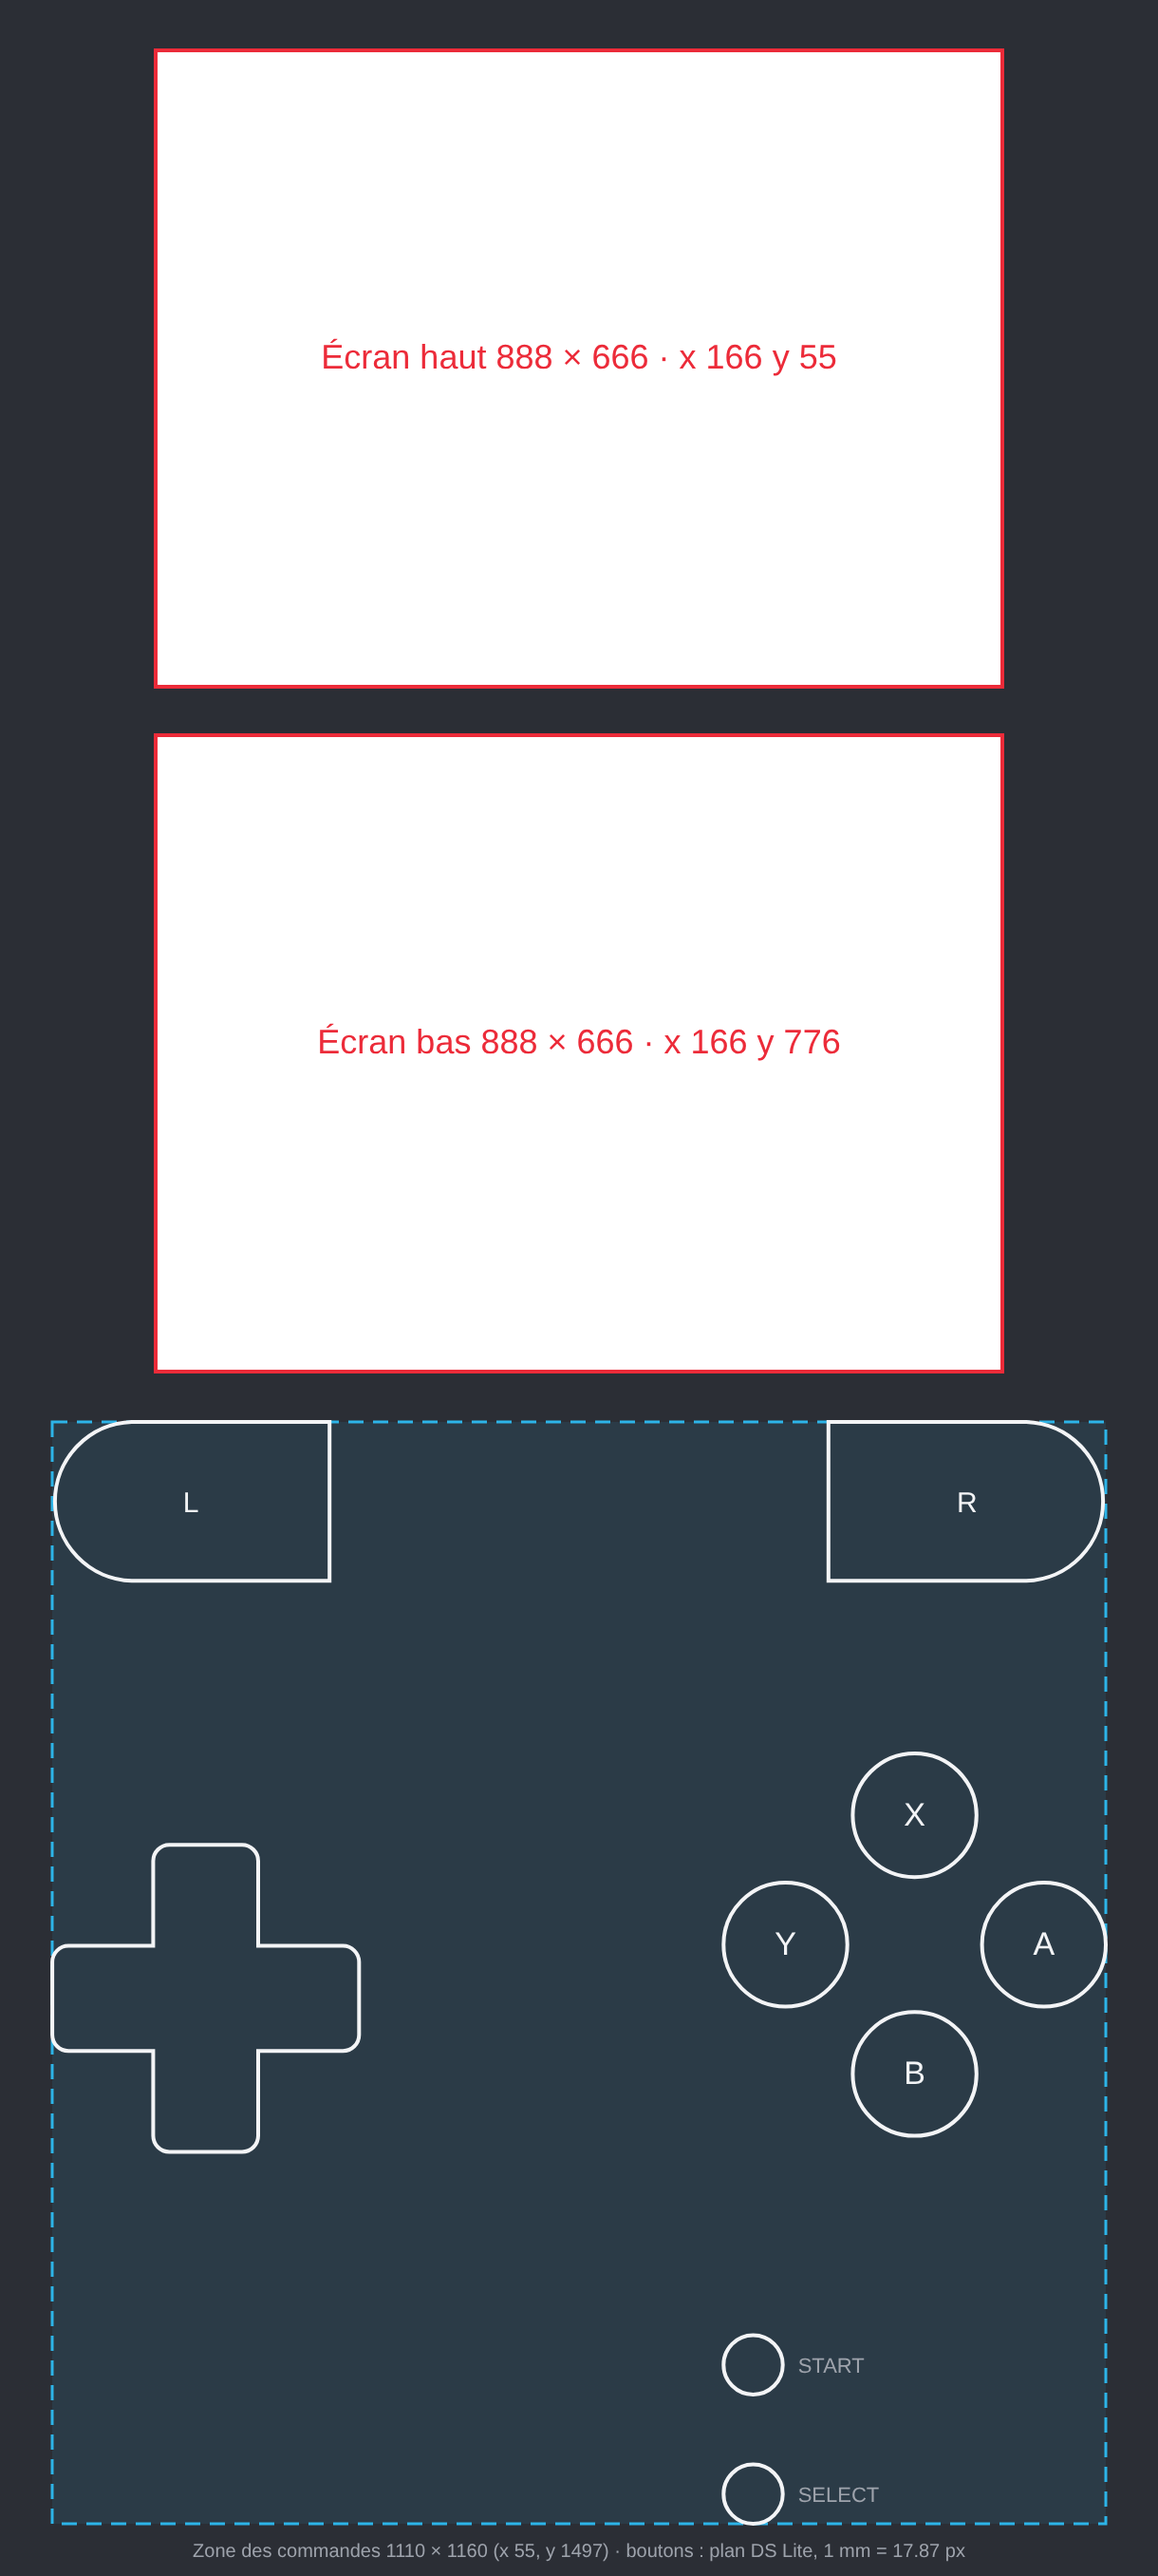
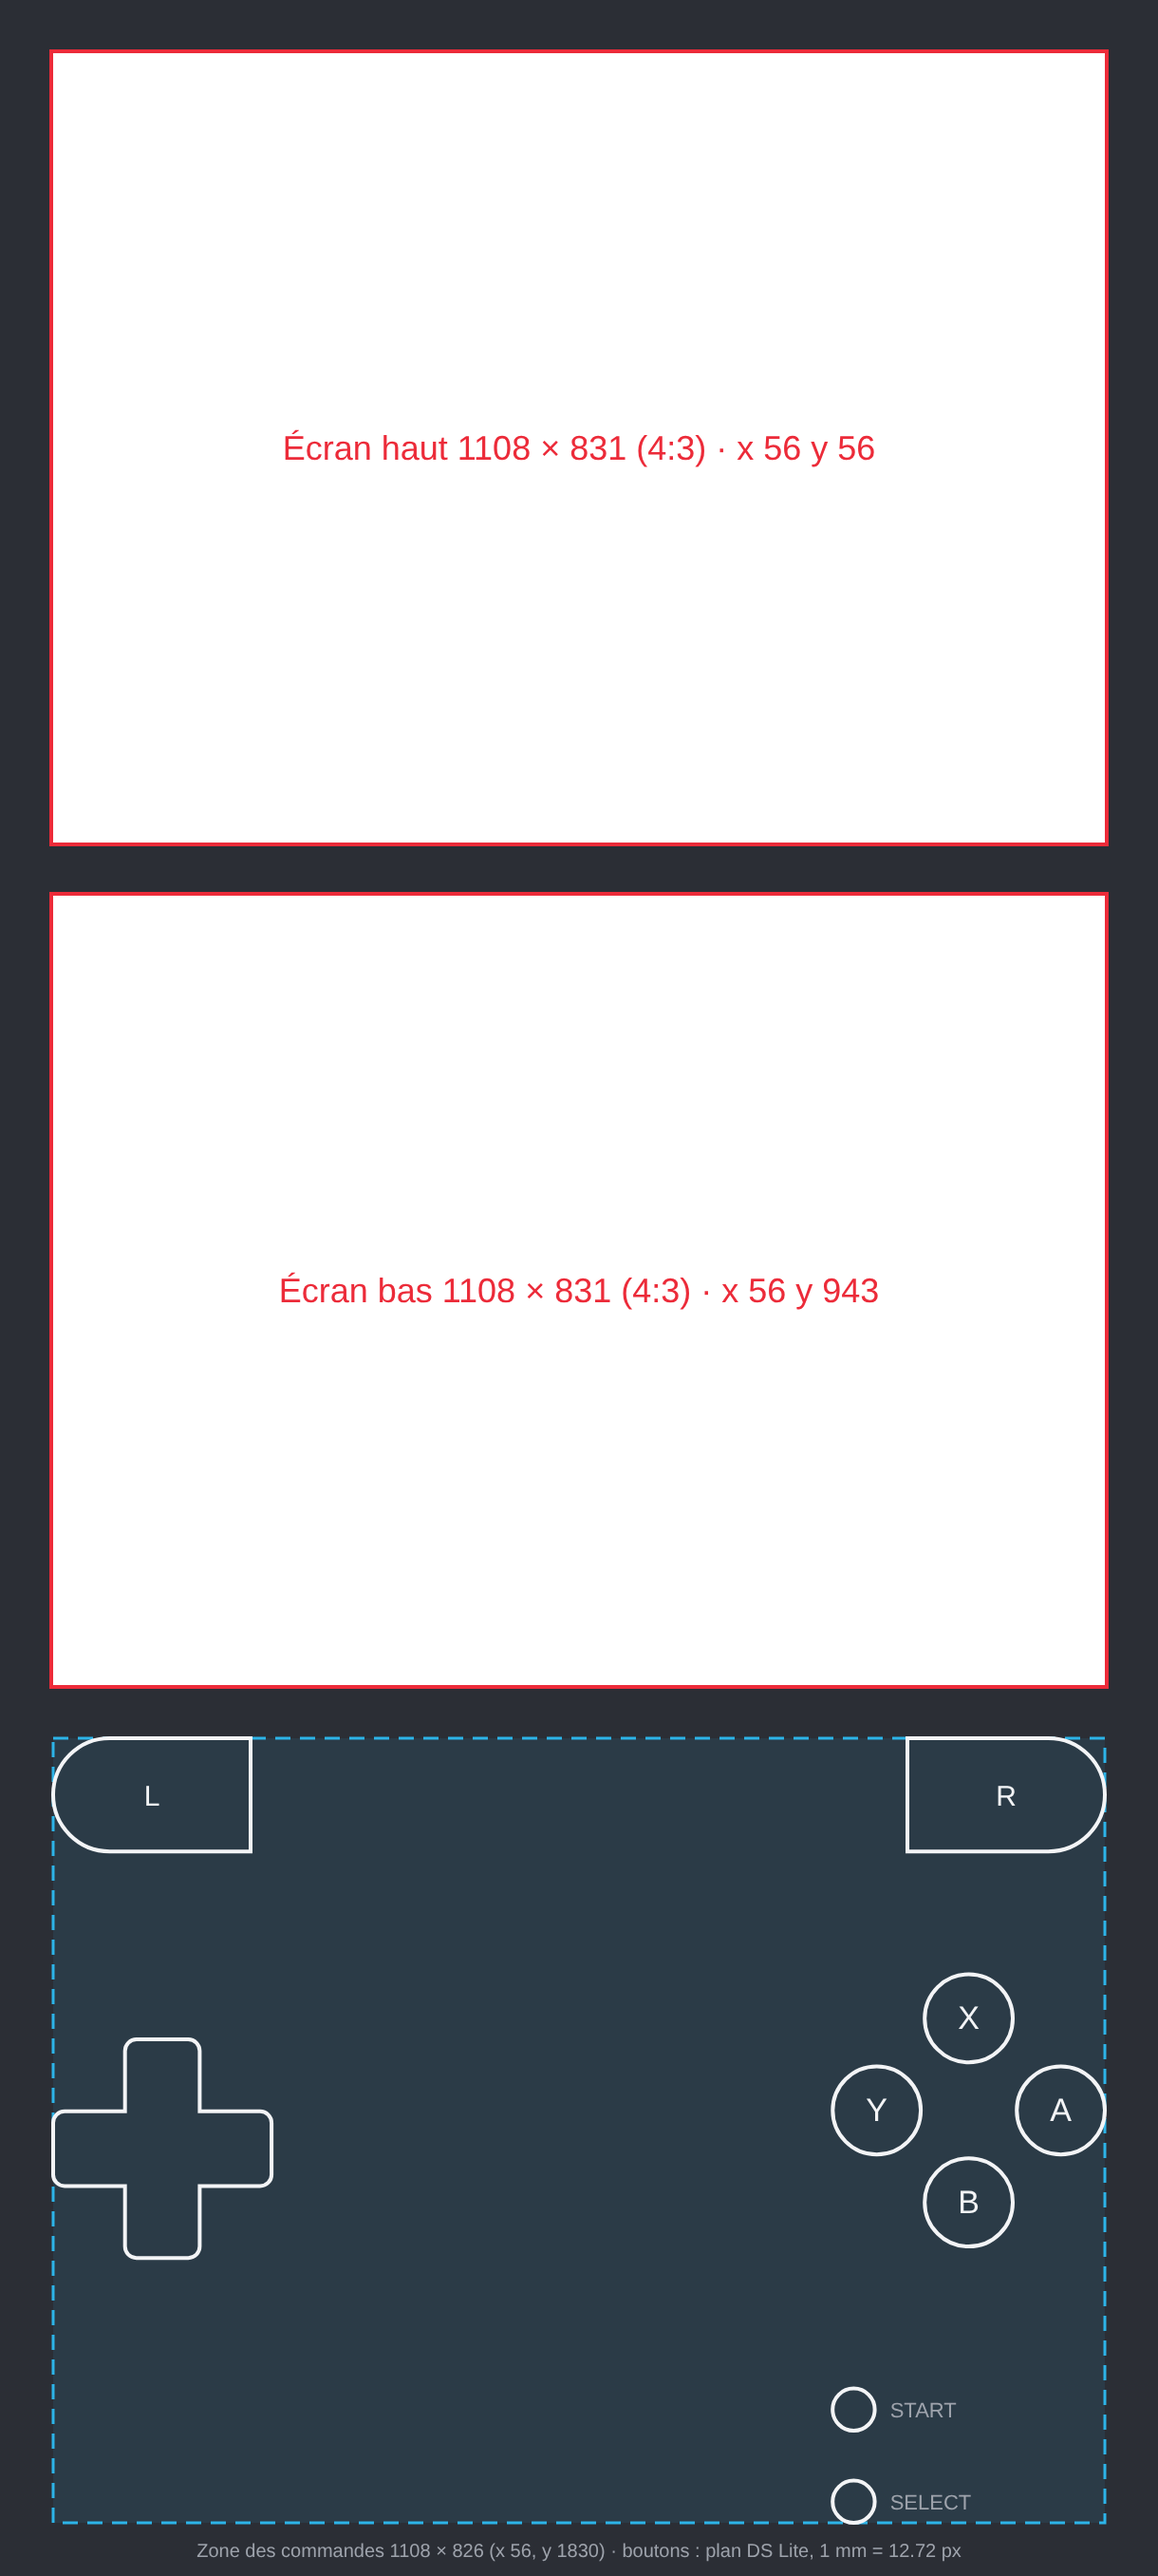
DS skin template: full-width 4:3 screens, one 56 px margin everywhere
Owner's request: the margins equal on every side and proportional to the
screens, the screens kept at the DS's 4:3. Both screens 1108 x 831 (exact
4:3); the margin, 1/20 of their width (55.4) rounded up to 56 so the width
closes exactly (56 + 1108 + 56 = 1220), sits on all four sides, between the
screens and above the controls zone, now 1108 x 826 at y 1830. The buttons
keep the DS Lite plan's shapes at one scale, now 12.72 px per mm (was
17.87, the zone being shorter). The Classic layout follows the template.

Claude-Session: https://claude.ai/code/session_01BPwFCEgf2UrCo7R4tPEQGE

diff --git a/melonDS-android/app/src/main/java/me/magnum/melonds/impl/layout/ClassicLayoutProvider.kt b/melonDS-android/app/src/main/java/me/magnum/melonds/impl/layout/ClassicLayoutProvider.kt
@@ -25,19 +25,19 @@ class ClassicLayoutProvider(private val defaultLayoutProvider: DefaultLayoutProv
         const val TEMPLATE_HEIGHT = 2712f
 
         // Template rectangles (x, y, width, height), in template pixels
-        val TOP_SCREEN = Rect(166, 55, 888, 666)
-        val BOTTOM_SCREEN = Rect(166, 776, 888, 666)
-        val BUTTON_L = Rect(55, 1497, 292, 167)
-        val BUTTON_R = Rect(873, 1497, 292, 167)
-        val DPAD = Rect(55, 1942, 323, 323)
-        val BUTTONS = Rect(762, 1846, 403, 403)
-        val BUTTON_START = Rect(762, 2458, 62, 62)
-        val BUTTON_SELECT = Rect(762, 2595, 62, 62)
+        val TOP_SCREEN = Rect(56, 56, 1108, 831)
+        val BOTTOM_SCREEN = Rect(56, 943, 1108, 831)
+        val BUTTON_L = Rect(56, 1830, 208, 119)
+        val BUTTON_R = Rect(956, 1830, 208, 119)
+        val DPAD = Rect(56, 2147, 230, 230)
+        val BUTTONS = Rect(877, 2078, 287, 287)
+        val BUTTON_START = Rect(877, 2515, 44, 44)
+        val BUTTON_SELECT = Rect(877, 2612, 44, 44)
 
         // Not on the DS: a row of four between L and R, so every input stays reachable
         const val UTILITY_SIZE = 96
         const val UTILITY_SPACING = 24
-        const val UTILITY_TOP = 1497 + (167 - UTILITY_SIZE) / 2
+        const val UTILITY_TOP = 1830 + (119 - UTILITY_SIZE) / 2
         val UTILITY_COMPONENTS = listOf(
             LayoutComponent.BUTTON_HINGE,
             LayoutComponent.BUTTON_TOGGLE_SOFT_INPUT,
